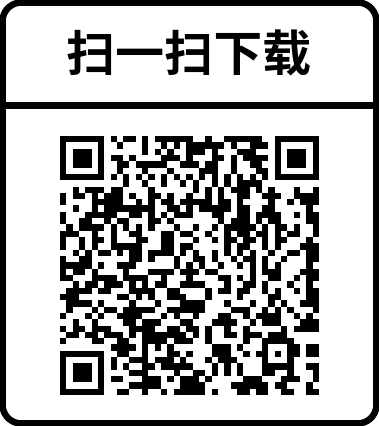
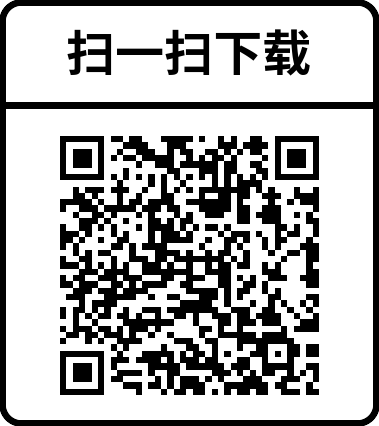
web

diff --git a/code/app/download.html b/code/app/download.html
@@ -74,7 +74,7 @@
         <img src="./share_code.png" alt="智汇盒子分享码，扫一扫" loading="lazy" decoding="async" width="190" height="213">
       </div>
 
-      <a class="styles_dowbtn__by918" href="https://env-00jy61nrt955.normal.cloudstatic.cn/code/apk/box.apk" aria-label="立即下载智汇盒子 APK" rel="noopener noreferrer">立即下载</a>
+      <a class="styles_dowbtn__by918" href="https://tzoss.tingzhi.tech/CodeV2.0.0.apk" aria-label="立即下载智汇盒子 APK" rel="noopener noreferrer">立即下载</a>
 
       <section class="styles_SwiperBox__u3J8a" aria-label="应用截图展示">
         <div class="styles_SwiperBox_item__qgWCi">
